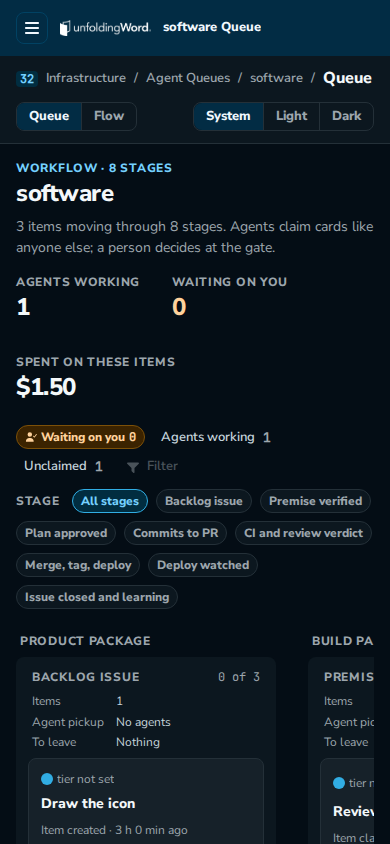
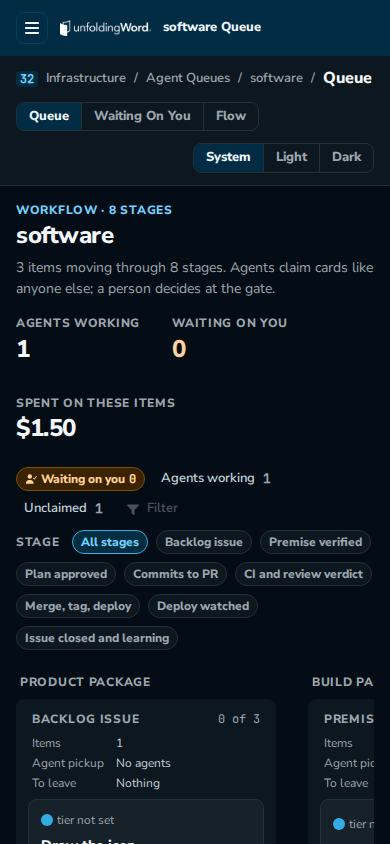
feat(ui): Waiting On You screenshots, PRD rows and glossary (#106)

diff --git a/apps/uw-app/screens/screens.pg.test.ts b/apps/uw-app/screens/screens.pg.test.ts
@@ -20,11 +20,11 @@ import {
   queuePath,
   flowPath,
   gatePath,
-  gatesPath,
   healthPath,
   homePath,
   itemPath,
   personaPath,
+  waitingPath,
 } from '../views/parts/paths.ts';
 
 const seedClock: Clock = { now: () => new Date('2026-10-02T06:00:00.000Z') };
@@ -124,7 +124,7 @@ async function gateScreens(db: Database): Promise<Screen[]> {
   const world = await gateWorld(db);
   const { harnessId, itemId } = world.item;
   const paths: readonly (readonly [string, string])[] = [
-    ['gates', gatesPath()],
+    ['waiting', waitingPath(harnessId)],
     ['gate', gatePath(harnessId, itemId)],
     ['play', itemPath(harnessId, itemId)],
   ];
@@ -228,7 +228,7 @@ describe.skipIf(!testServer || (!browserReady && !required))('UI-16 the screensh
       'health',
       'health-detail',
       'persona',
-      'gates',
+      'waiting',
       'gate',
       'play',
     ]);

diff --git a/docs/PRD.md b/docs/PRD.md
@@ -129,7 +129,7 @@ Loop edges are `feeds` on the stage rows: Close to Scope (the regular tweak) and
 People ──> Web app (uw-app) ──┬── Home "waiting on me"
                               ├── Flow view      one harness as the BML diagram, live
                               ├── Queue          stages as columns, items as cards
-                              ├── Gates          the ship decision, at phone width
+                              ├── Waiting On You each workflow's gates to decide, at phone width
                               ├── Item           play-by-play from the event log
                               ├── Persona page   form, instructions, dashboard
                               └── /health        the agent plane
@@ -616,7 +616,7 @@ From #97 (2026-11-12) the source of truth for how screens look is the Claude Des
 | Agent Queues landing (the epic #99 proposal) | Agent Queues, one card per workflow the viewer may see (#104) |
 | Agent Queues lanes and cards, with Development's chips and view switch | Queue tab, formerly the Board (WB-5, UI-6): lanes grouped by phase, each lane's rules in plain words, refusals on cards (#105) |
 | Agent Queues "Stage configuration" | Flow (WB-4, UI-10) |
-| Today's "Waiting on me" rows | Waiting On You (WB-6, UI-7) |
+| Today's "Waiting on me" rows | Waiting On You tab for each workflow (WB-6, UI-7): each gate the viewer may decide, with Approve (Approve merge at a merge stage) and Send back with a reason; the old `/gates` address moves to Agent Queues (#106) |
 | Health's "Open alert" card | Gate decision (UI-7) |
 | Agent Queues "What the run did" | Item play-by-play (WB-8, UI-11) |
 | Agent Queues, agents | Persona (UI-12) |

diff --git a/CONTEXT.md b/CONTEXT.md
@@ -333,7 +333,7 @@ A person's open live session on one screen of a harness. A wake for that screen 
 _Avoid_: online, active
 
 **Screen**:
-The view a live session watches: `home`, `queues` (Agent Queues), `flow`, `board` (the Queue; the value keeps the screen's old name), `gates` or `item`. An `item` session also names its item.
+The view a live session watches: `home`, `queues` (Agent Queues), `flow`, `board` (the Queue; the value keeps the screen's old name), `gates` (a workflow's Waiting On You tab and a gate's own page) or `item`. An `item` session also names its item.
 _Avoid_: page (that is a content page), route
 
 **Zulip topic**:
@@ -507,7 +507,7 @@ A Reviewer approval on an earlier head that counts on the current head because e
 _Avoid_: sticky approval, inherited review
 
 **Refuted finding**:
-A Reviewer finding a person marked wrong on the Gates view. The share of a Reviewer's findings refuted over 30 days is its refute rate.
+A Reviewer finding a person marked wrong on a gate's page. The share of a Reviewer's findings refuted over 30 days is its refute rate.
 _Avoid_: rejected finding (a gate is rejected), false positive
 
 **Strictness preset**:
